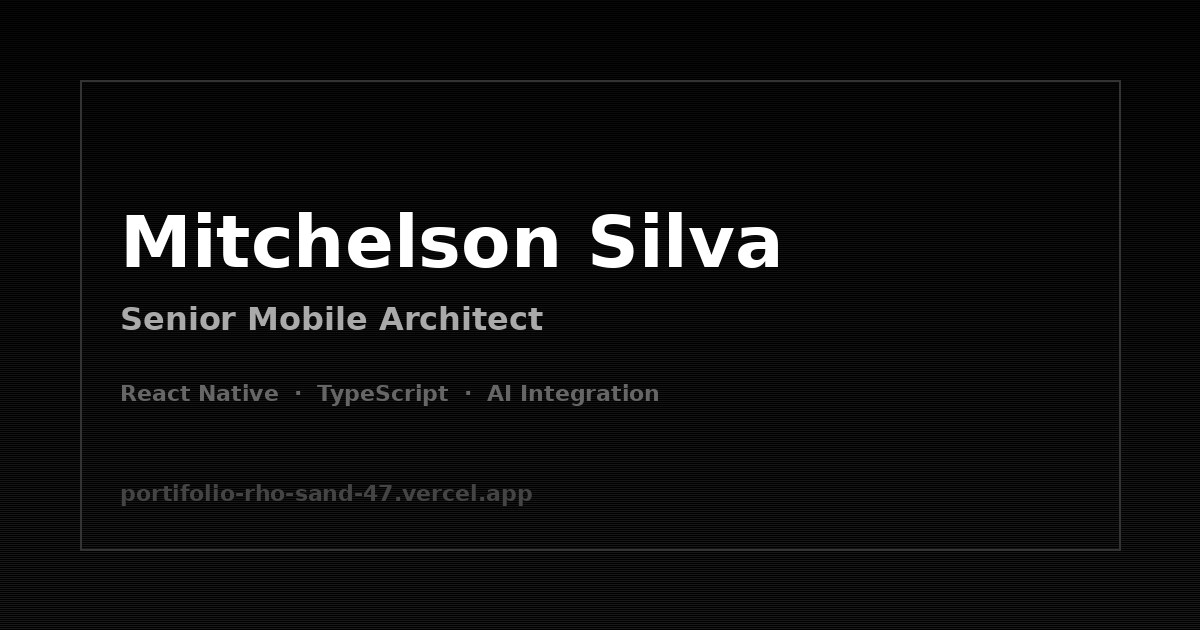
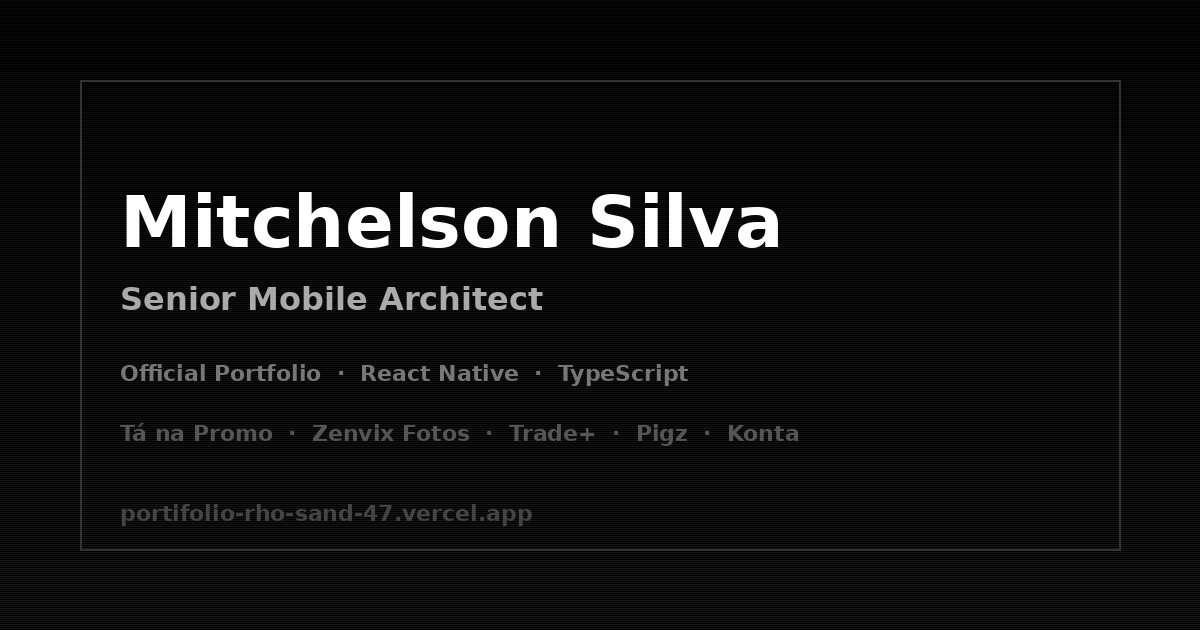
feat: add Tá na Promo and strengthen name-search SEO
Feature Tá na Promo (tanapromo.app) in projects, and improve discoverability
for “Mitchelson Silva” with name-first titles, crawlable HTML fallback,
ProfilePage/WebSite/Person JSON-LD, and richer meta/OG content.

diff --git a/index.html b/index.html
@@ -5,33 +5,42 @@
   <meta charset="UTF-8" />
   <meta name="viewport" content="width=device-width, initial-scale=1.0" />
 
-  <title>Mitchelson Silva | Senior Mobile Architect</title>
-  <meta name="description" content="Senior Mobile Architect with 7+ years of experience in React Native, AI integration, and enterprise scaling. Specialist in designing high-performance mobile applications and component architecture." />
-  <meta name="keywords" content="Mitchelson Silva, Mobile Architect, React Native, React Native Developer, iOS, Android, TypeScript, Mobile Development, Software Engineer, Tech Lead, AI Integration, Enterprise Applications" />
+  <!-- Name-first title for “Mitchelson Silva” search queries -->
+  <title>Mitchelson Silva — Portfolio | Senior Mobile Architect</title>
+  <meta name="description" content="Official portfolio of Mitchelson Silva (Mitch Silva), Senior Mobile Architect specializing in React Native, TypeScript, AI-integrated apps, and enterprise mobile systems. Projects include Tá na Promo, Zenvix Fotos, Trade+, Pigz, and Konta." />
+  <meta name="keywords" content="Mitchelson Silva, Mitch Silva, Mitchelson, portfólio Mitchelson Silva, Senior Mobile Architect, React Native, React Native Developer, TypeScript, Mobile Architect Brazil, Tá na Promo, Zenvix, Pigz, Konta" />
   <meta name="author" content="Mitchelson Silva" />
+  <meta name="robots" content="index, follow, max-image-preview:large, max-snippet:-1, max-video-preview:-1" />
+  <meta name="googlebot" content="index, follow" />
   <meta name="theme-color" content="#000000" />
 
   <link rel="canonical" href="https://portifolio-rho-sand-47.vercel.app" />
   <link rel="alternate" hreflang="en" href="https://portifolio-rho-sand-47.vercel.app?lang=en" />
   <link rel="alternate" hreflang="pt" href="https://portifolio-rho-sand-47.vercel.app?lang=pt" />
+  <link rel="alternate" hreflang="pt-BR" href="https://portifolio-rho-sand-47.vercel.app?lang=pt" />
   <link rel="alternate" hreflang="x-default" href="https://portifolio-rho-sand-47.vercel.app" />
 
-  <meta property="og:type" content="website" />
+  <meta property="og:type" content="profile" />
   <meta property="og:url" content="https://portifolio-rho-sand-47.vercel.app" />
-  <meta property="og:title" content="Mitchelson Silva | Senior Mobile Architect" />
-  <meta property="og:description" content="Senior Mobile Architect with 7+ years of experience in React Native, AI integration, and enterprise scaling. Building high-performance mobile applications." />
+  <meta property="og:title" content="Mitchelson Silva — Portfolio | Senior Mobile Architect" />
+  <meta property="og:description" content="Official portfolio of Mitchelson Silva — Senior Mobile Architect. React Native, TypeScript, AI apps. Tá na Promo, Zenvix Fotos, Trade+, Pigz, Konta." />
   <meta property="og:image" content="https://portifolio-rho-sand-47.vercel.app/og-image.jpg" />
+  <meta property="og:image:alt" content="Mitchelson Silva — Senior Mobile Architect portfolio" />
   <meta property="og:image:width" content="1200" />
   <meta property="og:image:height" content="630" />
   <meta property="og:locale" content="en_US" />
   <meta property="og:locale:alternate" content="pt_BR" />
   <meta property="og:site_name" content="Mitchelson Silva Portfolio" />
+  <meta property="profile:first_name" content="Mitchelson" />
+  <meta property="profile:last_name" content="Silva" />
+  <meta property="profile:username" content="mitchelson" />
 
   <meta name="twitter:card" content="summary_large_image" />
   <meta name="twitter:url" content="https://portifolio-rho-sand-47.vercel.app" />
-  <meta name="twitter:title" content="Mitchelson Silva | Senior Mobile Architect" />
-  <meta name="twitter:description" content="Senior Mobile Architect with 7+ years of experience in React Native, AI integration, and enterprise scaling." />
+  <meta name="twitter:title" content="Mitchelson Silva — Portfolio | Senior Mobile Architect" />
+  <meta name="twitter:description" content="Official portfolio of Mitchelson Silva — Senior Mobile Architect specializing in React Native and enterprise mobile systems." />
   <meta name="twitter:image" content="https://portifolio-rho-sand-47.vercel.app/og-image.jpg" />
+  <meta name="twitter:image:alt" content="Mitchelson Silva — Senior Mobile Architect portfolio" />
   <meta name="twitter:creator" content="@mitchelson" />
 
   <link rel="icon" type="image/svg+xml" href="/favicon.svg" />
@@ -40,34 +49,122 @@
   <link rel="apple-touch-icon" sizes="180x180" href="/apple-touch-icon.png" />
   <link rel="manifest" href="/manifest.json" />
 
+  <!-- Person -->
   <script type="application/ld+json">
   {
     "@context": "https://schema.org",
     "@type": "Person",
+    "@id": "https://portifolio-rho-sand-47.vercel.app/#person",
     "name": "Mitchelson Silva",
+    "alternateName": ["Mitch Silva", "Mitchelson", "Mitchelson PS"],
     "jobTitle": "Senior Mobile Architect",
+    "description": "Official portfolio of Mitchelson Silva (Mitch Silva), Senior Mobile Architect specializing in React Native, TypeScript, AI-integrated apps, and enterprise mobile systems.",
     "url": "https://portifolio-rho-sand-47.vercel.app",
+    "image": "https://portifolio-rho-sand-47.vercel.app/og-image.jpg",
     "email": "mitchelsonps@gmail.com",
+    "telephone": "+5595991151464",
+    "nationality": "Brazilian",
+    "address": {
+      "@type": "PostalAddress",
+      "addressCountry": "BR"
+    },
     "sameAs": [
-      "https://linkedin.com/in/miitch",
+      "https://www.linkedin.com/in/miitch",
       "https://github.com/mitchelson"
     ],
     "knowsAbout": [
       "React Native",
       "TypeScript",
+      "Expo",
       "Mobile Development",
       "iOS Development",
       "Android Development",
       "Software Architecture",
       "AI Integration",
       "Enterprise Applications"
-    ]
+    ],
+    "worksFor": {
+      "@type": "Organization",
+      "name": "Invillia"
+    }
+  }
+  </script>
+
+  <!-- WebSite -->
+  <script type="application/ld+json">
+  {
+    "@context": "https://schema.org",
+    "@type": "WebSite",
+    "@id": "https://portifolio-rho-sand-47.vercel.app/#website",
+    "name": "Mitchelson Silva Portfolio",
+    "alternateName": "Portfólio Mitchelson Silva",
+    "url": "https://portifolio-rho-sand-47.vercel.app",
+    "description": "Official portfolio of Mitchelson Silva — Senior Mobile Architect.",
+    "inLanguage": ["en", "pt-BR"],
+    "author": { "@id": "https://portifolio-rho-sand-47.vercel.app/#person" },
+    "publisher": { "@id": "https://portifolio-rho-sand-47.vercel.app/#person" }
+  }
+  </script>
+
+  <!-- ProfilePage -->
+  <script type="application/ld+json">
+  {
+    "@context": "https://schema.org",
+    "@type": "ProfilePage",
+    "@id": "https://portifolio-rho-sand-47.vercel.app/#profilepage",
+    "url": "https://portifolio-rho-sand-47.vercel.app",
+    "name": "Mitchelson Silva — Portfolio | Senior Mobile Architect",
+    "description": "Official portfolio of Mitchelson Silva (Mitch Silva), Senior Mobile Architect.",
+    "inLanguage": ["en", "pt-BR"],
+    "mainEntity": { "@id": "https://portifolio-rho-sand-47.vercel.app/#person" },
+    "about": { "@id": "https://portifolio-rho-sand-47.vercel.app/#person" }
   }
   </script>
 </head>
 
 <body>
-  <div id="root"></div>
+  <div id="root">
+    <!--
+      Crawlable fallback content for search engines that index HTML before JS.
+      React replaces this tree on mount.
+    -->
+    <header>
+      <h1>Mitchelson Silva</h1>
+      <p>Senior Mobile Architect — Portfolio</p>
+      <p>
+        Official website of Mitchelson Silva (also known as Mitch Silva), a Senior Mobile Architect
+        with 7+ years of experience in React Native, TypeScript, AI integration, and enterprise
+        mobile applications based in Brazil.
+      </p>
+    </header>
+    <main>
+      <section>
+        <h2>About Mitchelson Silva</h2>
+        <p>
+          Mitchelson Silva designs and scales high-performance React Native applications,
+          component architectures, and mobile platforms used by thousands of users.
+        </p>
+      </section>
+      <section>
+        <h2>Featured Projects by Mitchelson Silva</h2>
+        <ul>
+          <li><a href="https://tanapromo.app">Tá na Promo</a> — grocery deals and supermarket flyers app</li>
+          <li><a href="https://zenvixfotos.com">Zenvix Fotos</a> — event photo marketplace</li>
+          <li><a href="https://trademanager.com.br">Trade+</a> — SaaS and field operations platform</li>
+          <li><a href="https://apps.apple.com/br/app/pigz/id1526557835">Pigz App</a> — food delivery</li>
+          <li><a href="https://apps.apple.com/br/app/konta-personal-finance/id6761537625">Konta</a> — personal finance</li>
+        </ul>
+      </section>
+      <section>
+        <h2>Contact Mitchelson Silva</h2>
+        <p>
+          Email: <a href="mailto:mitchelsonps@gmail.com">mitchelsonps@gmail.com</a> ·
+          LinkedIn: <a href="https://www.linkedin.com/in/miitch">linkedin.com/in/miitch</a> ·
+          GitHub: <a href="https://github.com/mitchelson">github.com/mitchelson</a>
+        </p>
+      </section>
+    </main>
+  </div>
   <script type="module" src="/src/main.tsx"></script>
 </body>
 

diff --git a/src/config/seo.ts b/src/config/seo.ts
@@ -6,18 +6,21 @@
 export const SITE_URL = 'https://portifolio-rho-sand-47.vercel.app';
 
 export const SEO_CONFIG = {
-  title: 'Mitchelson Silva | Senior Mobile Architect',
+  /** Name-first titles help rank for “Mitchelson Silva” queries. */
+  title: 'Mitchelson Silva — Portfolio | Senior Mobile Architect',
+  titlePt: 'Mitchelson Silva — Portfólio | Senior Mobile Architect',
   description:
-    'Senior Mobile Architect with 7+ years of experience in React Native, AI integration, and enterprise scaling. Specialist in designing high-performance mobile applications and component architecture.',
+    'Official portfolio of Mitchelson Silva (Mitch Silva), Senior Mobile Architect specializing in React Native, TypeScript, AI-integrated apps, and enterprise mobile systems. Projects include Tá na Promo, Zenvix Fotos, Trade+, Pigz, and Konta.',
   descriptionPt:
-    'Senior Mobile Architect com mais de 7 anos de experiência em React Native, integração de IA e escala enterprise. Especialista em aplicações móveis de alta performance e arquitetura de componentes.',
+    'Portfólio oficial de Mitchelson Silva (Mitch Silva), Senior Mobile Architect especializado em React Native, TypeScript, apps com IA e sistemas mobile enterprise. Projetos: Tá na Promo, Zenvix Fotos, Trade+, Pigz e Konta.',
   keywords:
-    'Mitchelson Silva, Mobile Architect, React Native, React Native Developer, iOS, Android, TypeScript, Mobile Development, Software Engineer, Tech Lead, AI Integration, Enterprise Applications',
+    'Mitchelson Silva, Mitch Silva, Mitchelson, portfólio Mitchelson Silva, Senior Mobile Architect, React Native, React Native Developer, TypeScript, Mobile Architect Brazil, Tá na Promo, Zenvix, Pigz, Konta',
   url: SITE_URL,
   image: `${SITE_URL}/og-image.jpg`,
   twitterHandle: '@mitchelson',
   author: 'Mitchelson Silva',
   jobTitle: 'Senior Mobile Architect',
+  alternateNames: ['Mitch Silva', 'Mitchelson', 'Mitchelson PS'],
 } as const;
 
 export const CONTACT = {
@@ -28,7 +31,7 @@ export const CONTACT = {
   phoneE164: '5595991151464',
   whatsapp: 'https://wa.me/5595991151464',
   linkedin: {
-    url: 'https://linkedin.com/in/miitch',
+    url: 'https://www.linkedin.com/in/miitch',
     label: 'linkedin.com/in/miitch',
   },
   github: {
@@ -44,17 +47,28 @@ export const SOCIAL_LINKS = {
   whatsapp: CONTACT.whatsapp,
 } as const;
 
-export const STRUCTURED_DATA = {
+export const STRUCTURED_DATA_PERSON = {
   '@context': 'https://schema.org',
   '@type': 'Person',
+  '@id': `${SITE_URL}/#person`,
   name: CONTACT.name,
+  alternateName: [...SEO_CONFIG.alternateNames],
   jobTitle: CONTACT.jobTitle,
+  description: SEO_CONFIG.description,
   url: SITE_URL,
+  image: SEO_CONFIG.image,
   email: CONTACT.email,
+  telephone: `+${CONTACT.phoneE164}`,
+  nationality: 'Brazilian',
+  address: {
+    '@type': 'PostalAddress',
+    addressCountry: 'BR',
+  },
   sameAs: [CONTACT.linkedin.url, CONTACT.github.url],
   knowsAbout: [
     'React Native',
     'TypeScript',
+    'Expo',
     'Mobile Development',
     'iOS Development',
     'Android Development',
@@ -62,4 +76,36 @@ export const STRUCTURED_DATA = {
     'AI Integration',
     'Enterprise Applications',
   ],
+  worksFor: {
+    '@type': 'Organization',
+    name: 'Invillia',
+  },
 } as const;
+
+export const STRUCTURED_DATA_WEBSITE = {
+  '@context': 'https://schema.org',
+  '@type': 'WebSite',
+  '@id': `${SITE_URL}/#website`,
+  name: 'Mitchelson Silva Portfolio',
+  alternateName: 'Portfólio Mitchelson Silva',
+  url: SITE_URL,
+  description: SEO_CONFIG.description,
+  inLanguage: ['en', 'pt-BR'],
+  author: { '@id': `${SITE_URL}/#person` },
+  publisher: { '@id': `${SITE_URL}/#person` },
+} as const;
+
+export const STRUCTURED_DATA_PROFILE = {
+  '@context': 'https://schema.org',
+  '@type': 'ProfilePage',
+  '@id': `${SITE_URL}/#profilepage`,
+  url: SITE_URL,
+  name: SEO_CONFIG.title,
+  description: SEO_CONFIG.description,
+  inLanguage: ['en', 'pt-BR'],
+  mainEntity: { '@id': `${SITE_URL}/#person` },
+  about: { '@id': `${SITE_URL}/#person` },
+} as const;
+
+/** @deprecated Use STRUCTURED_DATA_PERSON */
+export const STRUCTURED_DATA = STRUCTURED_DATA_PERSON;

diff --git a/src/features/i18n/i18n.ts b/src/features/i18n/i18n.ts
@@ -22,6 +22,11 @@ const resources = {
       },
       projects: {
         title: "Featured Projects",
+        taNaPromo: {
+          title: "Tá na Promo",
+          description: "Grocery deals in your pocket — nearby supermarket flyers by category and store, favorites, and price-drop alerts. Built with React Native; product by Zenvix Labs.",
+          link: "https://tanapromo.app",
+        },
         zenvixFotos: {
           title: "Zenvix Fotos",
           description: "Event photo marketplace with on-device facial recognition. Find and buy high-res photos from weddings, graduations, sports and parties — PIX or card, built for photographers.",
@@ -90,6 +95,11 @@ const resources = {
       },
       projects: {
         title: "Projetos em Destaque",
+        taNaPromo: {
+          title: "Tá na Promo",
+          description: "Panfletos no bolso — promoções de supermercado perto de você por categoria e mercado, favoritos e alertas de preço. Feito com React Native; produto da Zenvix Labs.",
+          link: "https://tanapromo.app",
+        },
         zenvixFotos: {
           title: "Zenvix Fotos",
           description: "Marketplace de fotos de eventos com reconhecimento facial no navegador. Encontre e compre fotos em alta resolução de casamentos, formaturas, esportes e festas — PIX ou cartão, feito para fotógrafos.",

diff --git a/src/features/projects/Projects.tsx b/src/features/projects/Projects.tsx
@@ -1,12 +1,20 @@
 import { motion } from 'framer-motion';
 import { useTranslation } from 'react-i18next';
 import { Badge } from '@/components/ui/badge';
-import { Camera, BarChart2, UtensilsCrossed, Wallet, ArrowUpRight } from 'lucide-react';
+import { Camera, BarChart2, UtensilsCrossed, Wallet, ArrowUpRight, Tag } from 'lucide-react';
 
 export default function Projects() {
   const { t } = useTranslation();
 
   const projects = [
+    {
+      id: 'taNaPromo',
+      title: t('projects.taNaPromo.title'),
+      description: t('projects.taNaPromo.description'),
+      tags: ['React Native', 'NestJS', 'MongoDB', 'AI'],
+      icon: Tag,
+      link: t('projects.taNaPromo.link'),
+    },
     {
       id: 'zenvixFotos',
       title: t('projects.zenvixFotos.title'),

diff --git a/src/hooks/useSEO.ts b/src/hooks/useSEO.ts
@@ -24,7 +24,8 @@ export function useSEO(props?: SEOProps) {
 
   useEffect(() => {
     const isPt = lang === 'pt' || lang.startsWith('pt');
-    const title = props?.title ?? SEO_CONFIG.title;
+    const title =
+      props?.title ?? (isPt ? SEO_CONFIG.titlePt : SEO_CONFIG.title);
     const description =
       props?.description ??
       (isPt ? SEO_CONFIG.descriptionPt : SEO_CONFIG.description);
